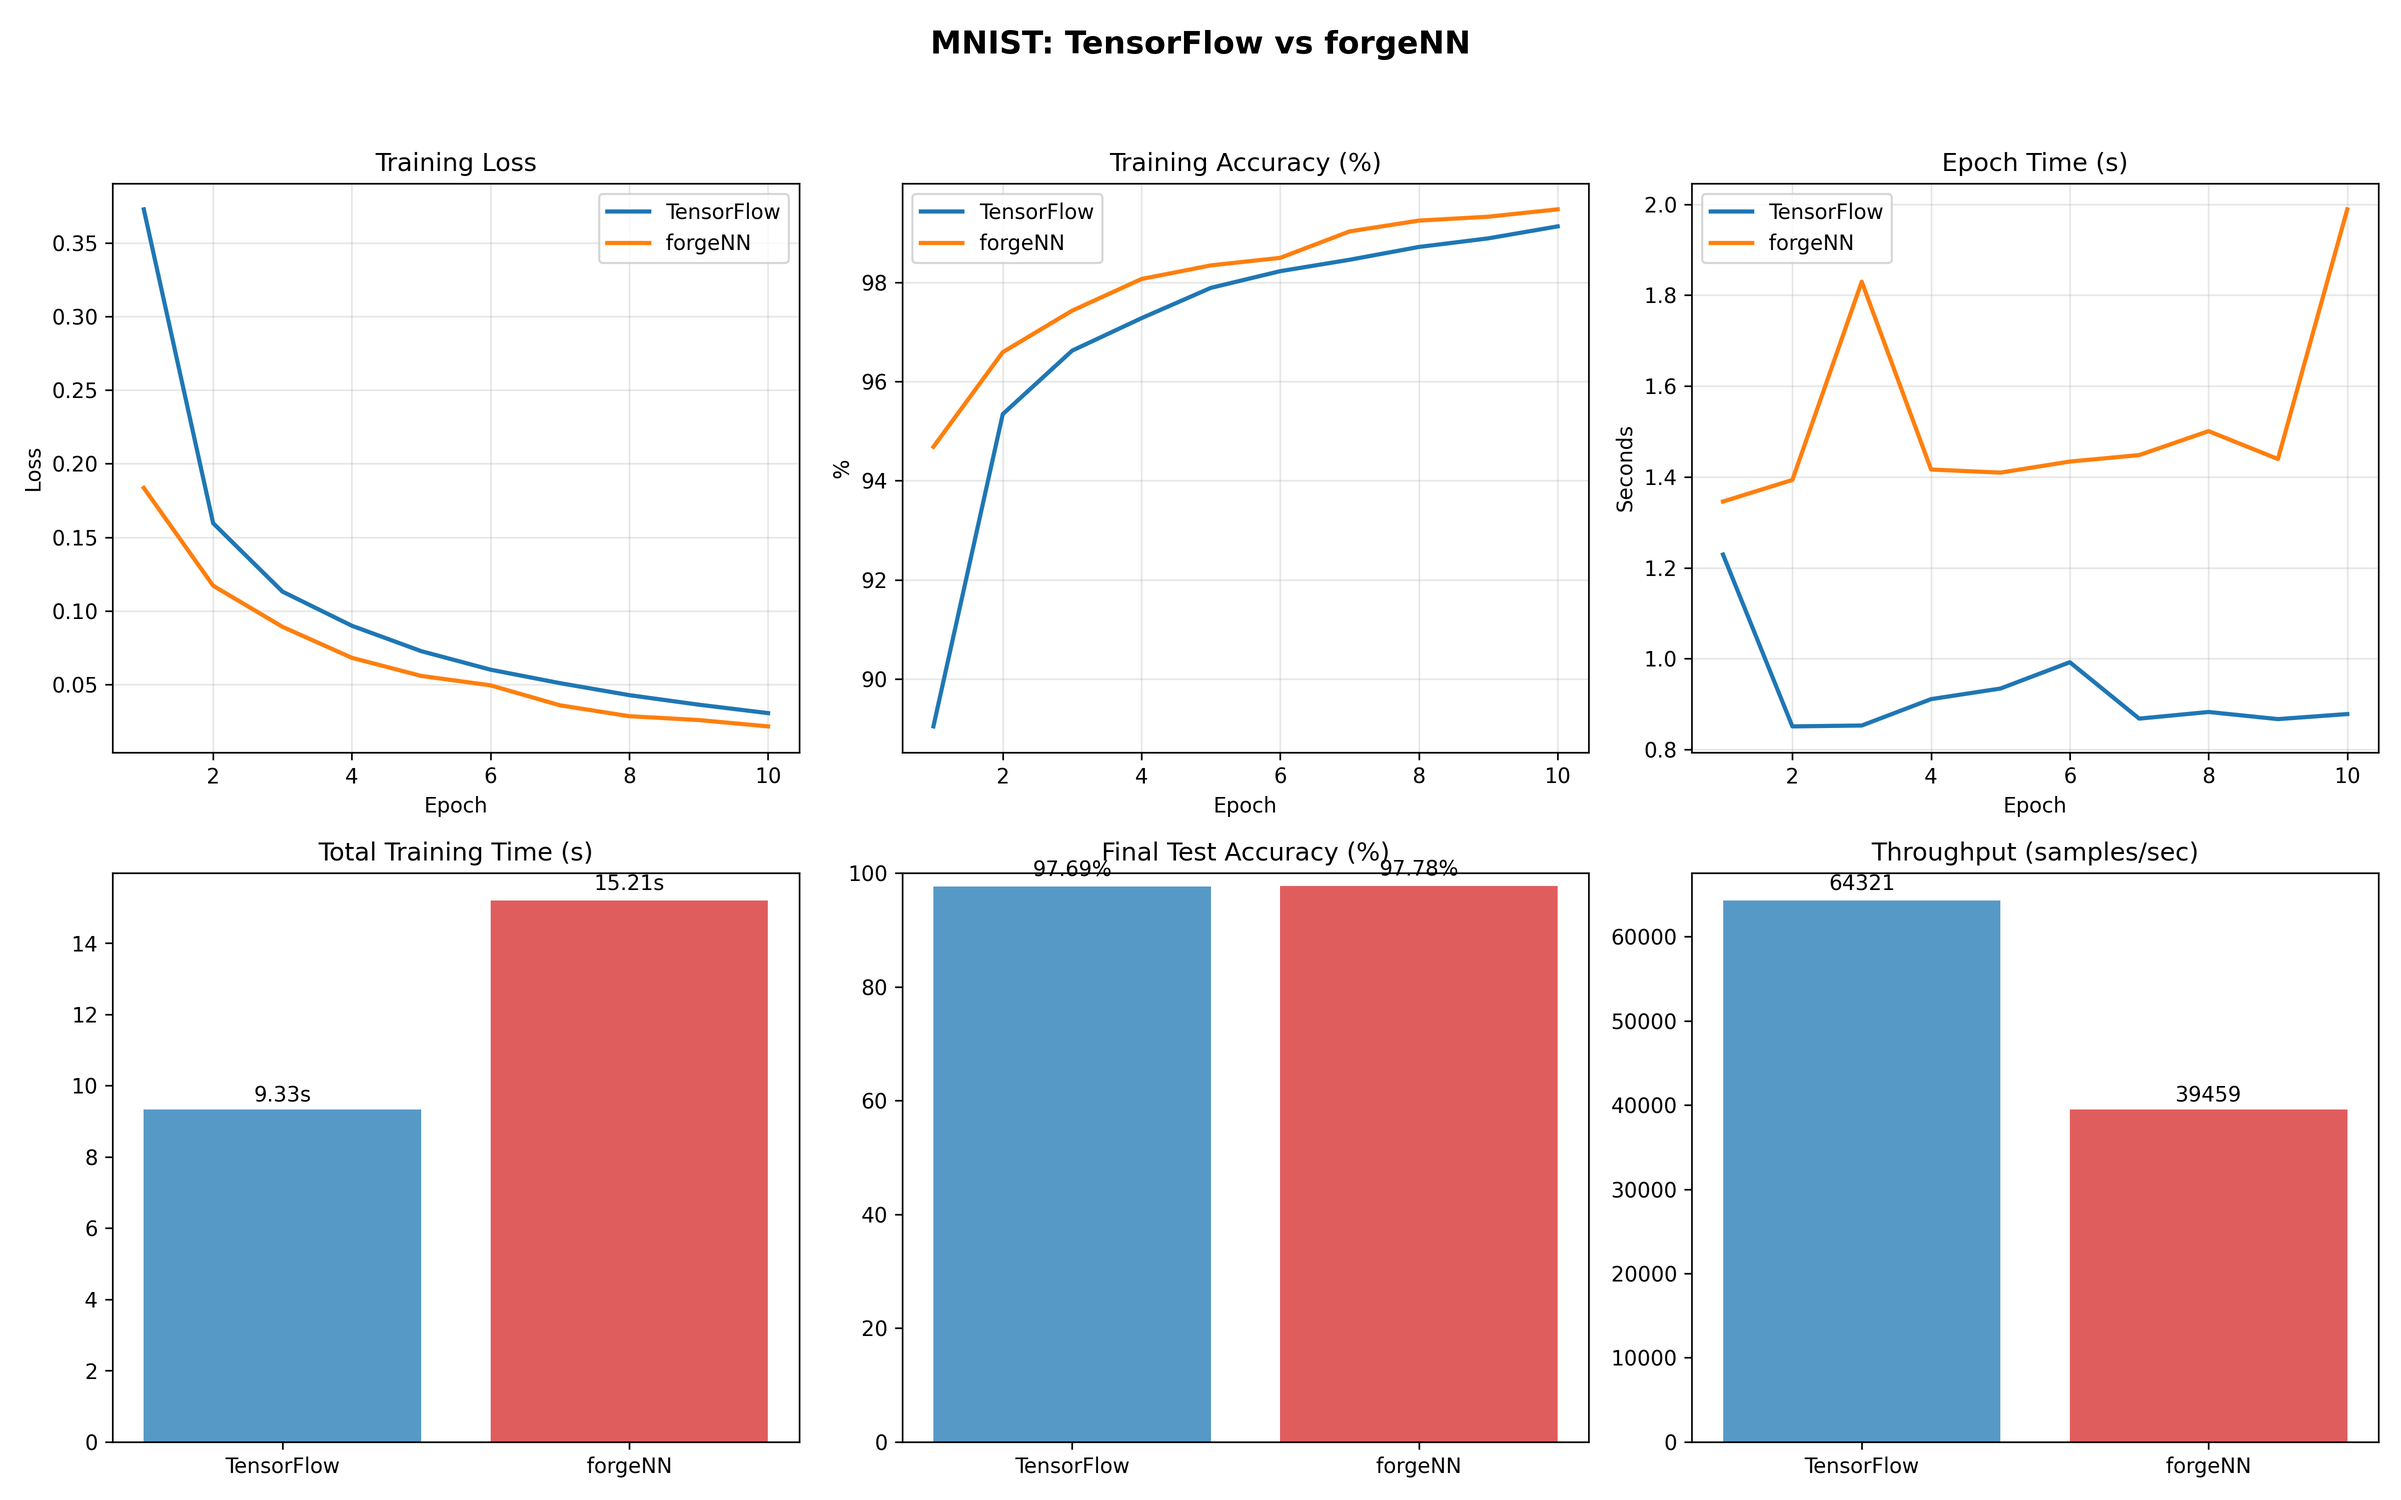
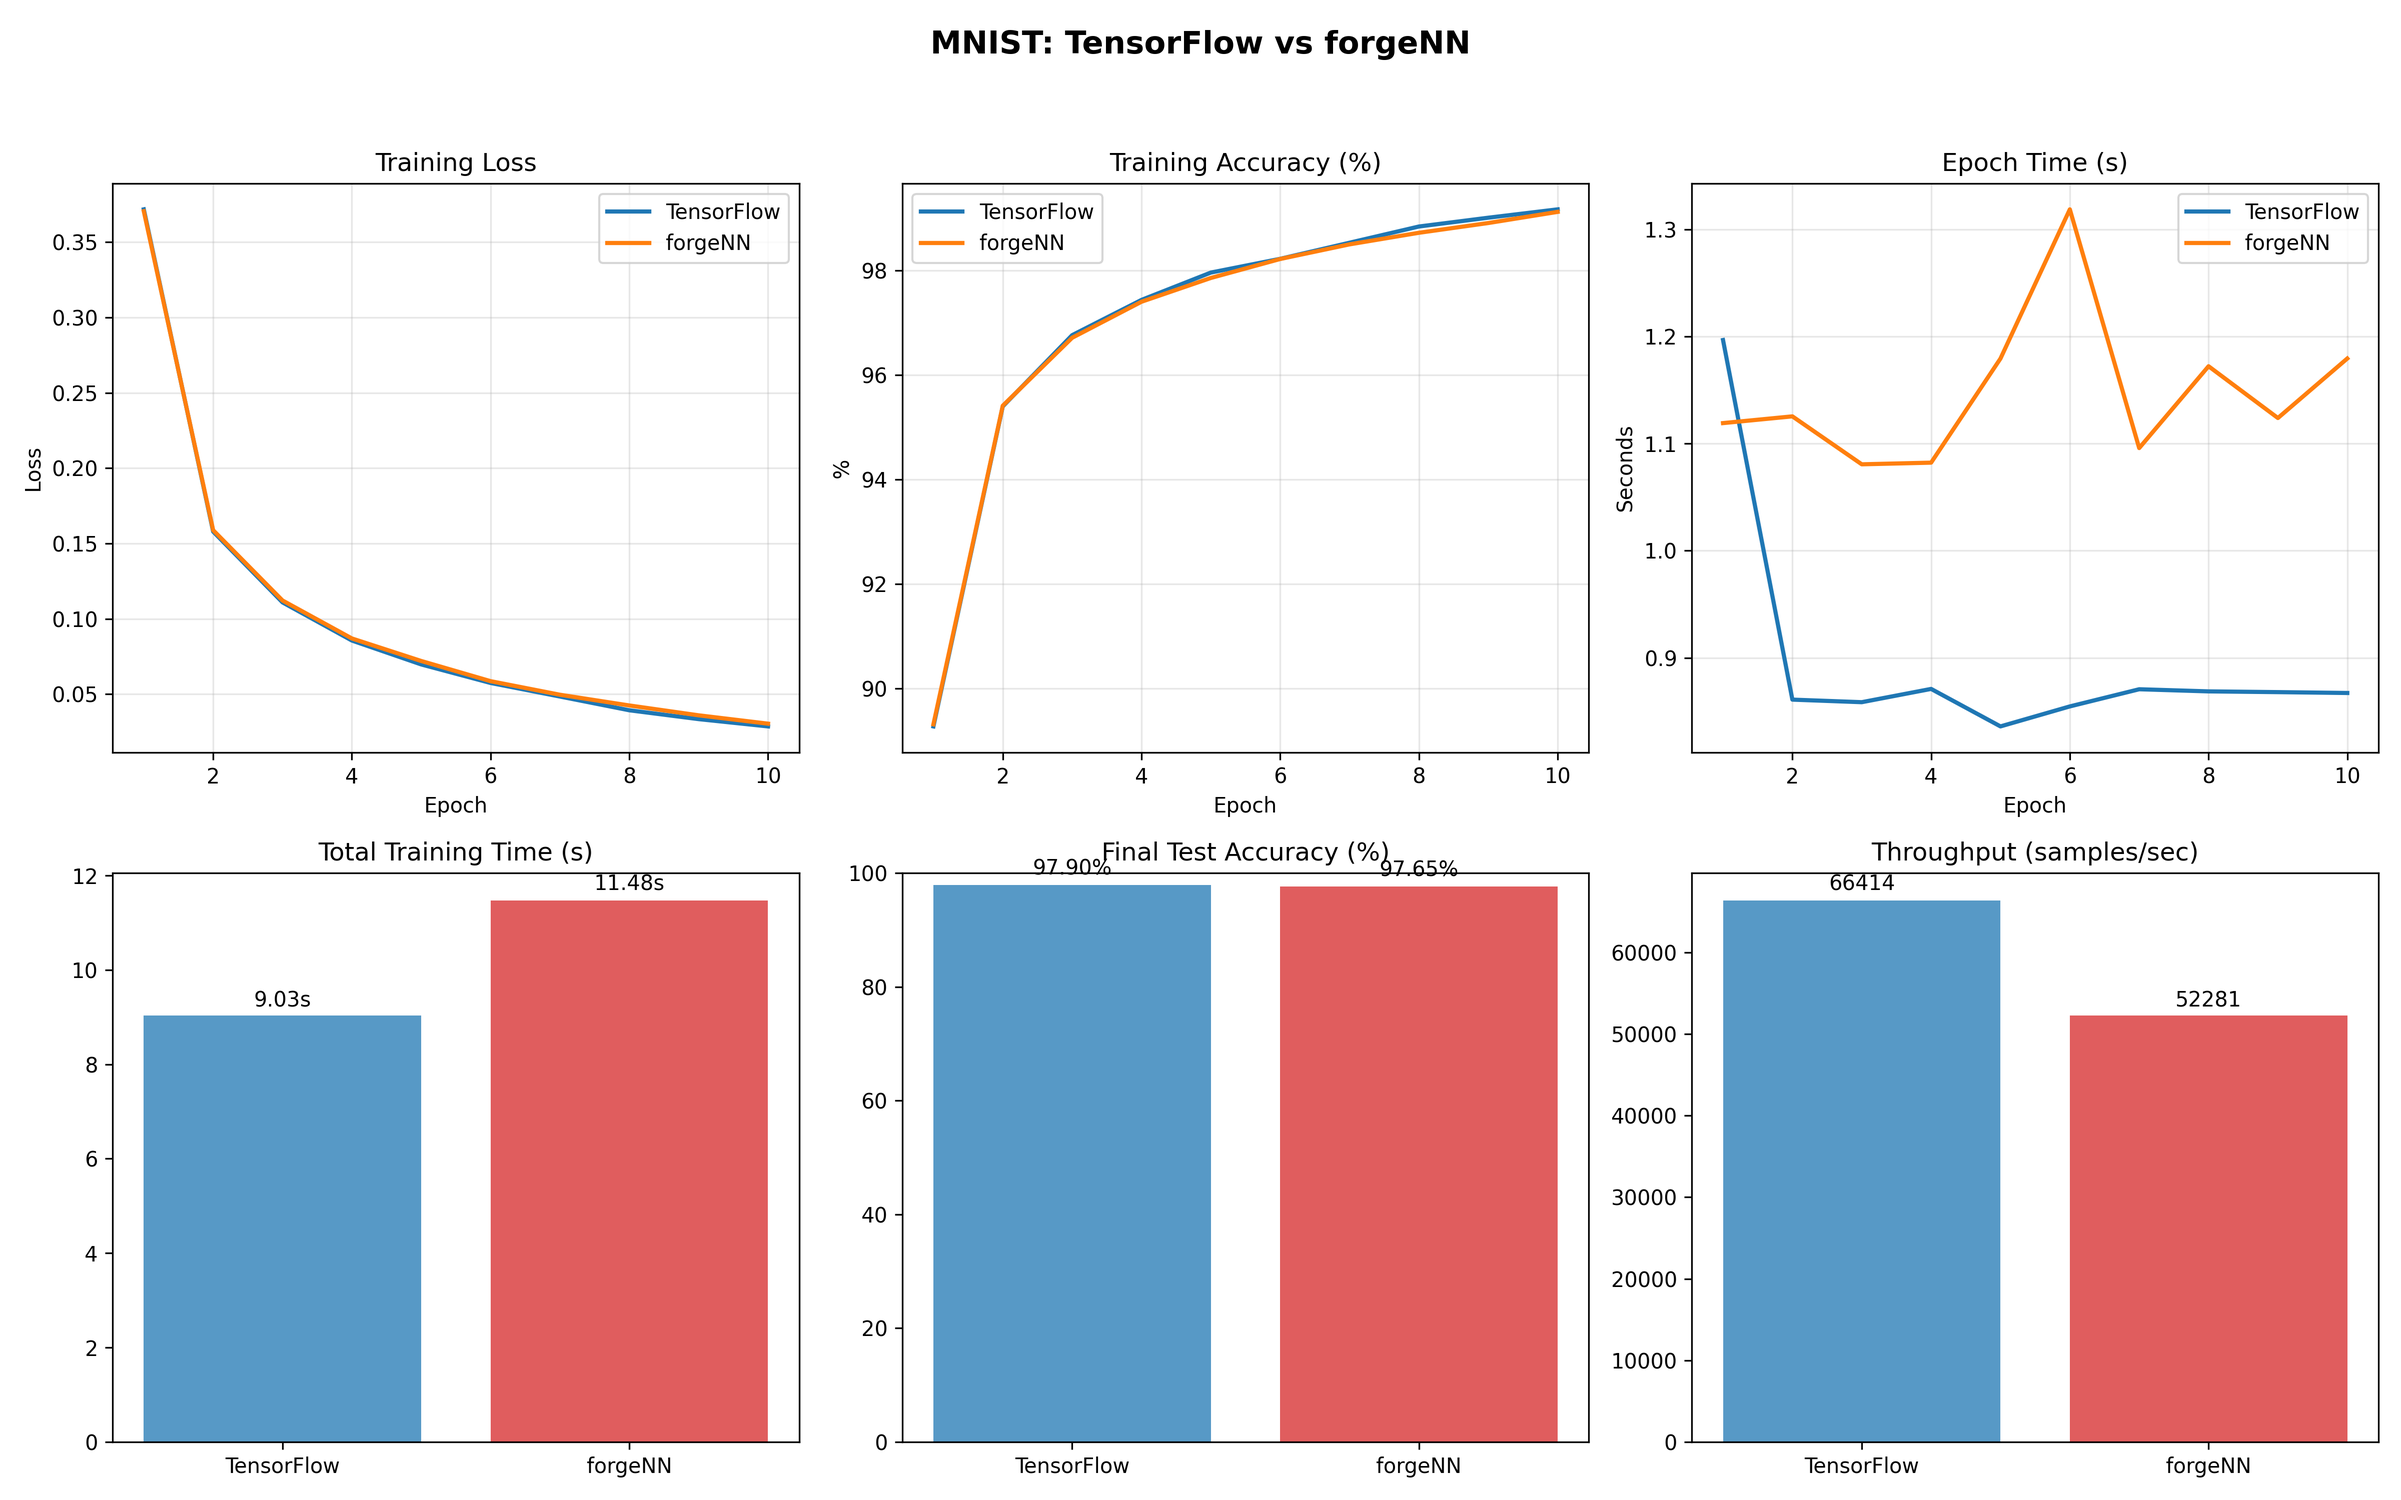
feat: improve accuracy calculation and enhance cross-entropy loss function for better performance

diff --git a/forgeNN/vectorized.py b/forgeNN/vectorized.py
@@ -393,39 +393,54 @@ def cross_entropy_loss(logits: Tensor, targets: np.ndarray) -> Tensor:
         >>> logits.grad.shape
         (2, 2)
     """
-    batch_size = logits.data.shape[0]
-    
-    # Numerical stability: subtract max before softmax
-    max_logits = logits.max(axis=1, keepdims=True)
-    shifted_logits = logits - max_logits
-    
-    # Compute log-softmax
-    exp_logits = shifted_logits.exp()
-    sum_exp = exp_logits.sum(axis=1, keepdims=True)
+    # Ensure targets are a contiguous int array
+    targets = np.asarray(targets, dtype=np.int64)
+    data = logits.data
+    # Cast internally to float32 for speed (keep original reference if already)
+    if data.dtype != np.float32:
+        data32 = data.astype(np.float32, copy=False)
+        # If we had to cast we still need autograd linkage, so operate through Tensor ops
+        # (casting outside graph would detach). Only cast the underlying array if safe.
+        logits.data = data32  # type: ignore
+
+    batch_size = data.shape[0]
+
+    # Numerical stability: subtract per-row max
+    max_per_row = logits.max(axis=1, keepdims=True)  # Tensor
+    shifted = logits - max_per_row  # Tensor
+
+    # exp & sum
+    exp_shifted = shifted.exp()  # Tensor
+    sum_exp = exp_shifted.sum(axis=1, keepdims=True)  # Tensor
+    # probabilities = exp / sum
+    probs = exp_shifted / sum_exp  # Tensor (softmax output)
+
+    # We need log probs for selected targets: log(softmax) = shifted - log(sum_exp)
     log_sum_exp = sum_exp.log()
-    log_probs = shifted_logits - log_sum_exp
-    
-    # Select probabilities for correct classes and compute loss directly
-    batch_indices = np.arange(batch_size)
-    selected_log_probs_data = log_probs.data[batch_indices, targets]
-    loss_data = -np.mean(selected_log_probs_data)
-    
-    # Create loss tensor with proper computation graph
-    loss = Tensor(loss_data, requires_grad=logits.requires_grad,
-                  _children=(logits,), _op='cross_entropy')
-    
-    # Proper backward pass that connects to the computation graph
+    log_probs = shifted - log_sum_exp  # Tensor
+
+    batch_idx = np.arange(batch_size)
+    selected = log_probs.data[batch_idx, targets]
+    loss_value = -float(np.mean(selected))
+
+    # Create scalar loss tensor referencing logits for gradient flow
+    loss = Tensor(loss_value, requires_grad=logits.requires_grad, _children=(logits,), _op='cross_entropy')
+
     if logits.requires_grad:
+        # Capture needed arrays once
+        probs_data = probs.data  # shape (B,C)
+        targets_local = targets
+        bsz = batch_size
+
         def _backward():
-            # Softmax gradient
-            probs = (shifted_logits - log_sum_exp).exp().data
-            grad = probs.copy()
-            grad[batch_indices, targets] -= 1
-            grad /= batch_size
+            # Gradient of cross-entropy w.r.t logits: (probs - one_hot)/B
+            grad = probs_data.copy()
+            grad[batch_idx, targets_local] -= 1.0
+            grad /= bsz
             logits.grad += grad * loss.grad
-        
+
         loss._backward = _backward
-    
+
     return loss
 
 def accuracy(logits: Tensor, targets: np.ndarray) -> float:

diff --git a/forgeNN/training.py b/forgeNN/training.py
@@ -155,29 +155,36 @@ class CompiledModel:
             Loss and metrics are aggregated sample-weighted across batches.
         """
         for epoch in range(1, epochs + 1):
-            # Sample-weighted aggregation to reduce jitter
+            # On-the-fly aggregation without post-epoch extra forward pass
             loss_sum = 0.0
             weight_sum = 0
             metric_sums = {name: 0.0 for name, _ in self.metric_fns}
+            correct_total = 0  # special path for accuracy to avoid recompute
             for bx, by in self._data_loader(X, y, batch_size, shuffle):
                 logits = self.model(Tensor(bx))
                 loss = self.loss_fn(logits, by)
 
-                # Backprop & update
                 self.optimizer.zero_grad()
                 loss.backward()
                 self.optimizer.step()
 
-                # Accumulate weighted by batch size
                 bsz = len(by)
-                loss_sum += float(loss.data) * bsz
                 weight_sum += bsz
+                loss_sum += float(loss.data) * bsz
                 for name, fn in self.metric_fns:
-                    metric_sums[name] += float(fn(logits, by)) * bsz
+                    if name == 'accuracy':
+                        preds = np.argmax(logits.data, axis=1)
+                        correct_total += int(np.sum(preds == by))
+                    else:
+                        metric_sums[name] += float(fn(logits, by)) * bsz
 
-            # Aggregate
             avg_loss = loss_sum / max(weight_sum, 1)
-            avg_metrics = {name: (metric_sums[name] / max(weight_sum, 1)) for name, _ in self.metric_fns}
+            avg_metrics = {}
+            for name, _ in self.metric_fns:
+                if name == 'accuracy':
+                    avg_metrics[name] = correct_total / max(weight_sum, 1)
+                else:
+                    avg_metrics[name] = metric_sums[name] / max(weight_sum, 1)
 
             # Validation
             val_str = ""
